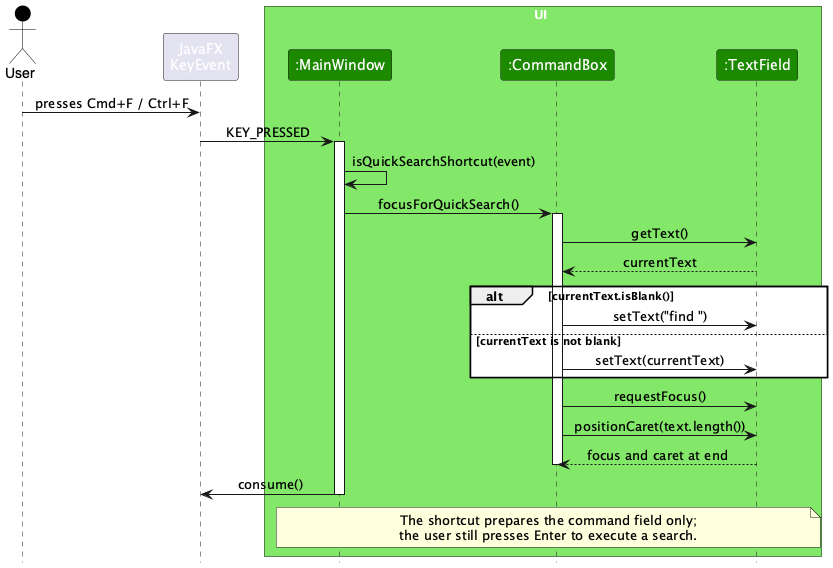
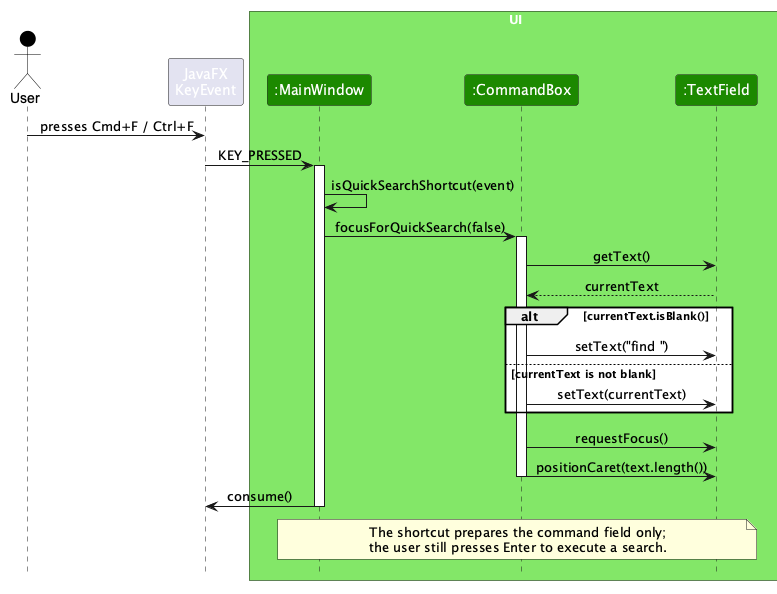
Update developer guide diagrams and quick command behavior

Changed region(s): [[0.0, 0.0, 1.0, 0.9877]]

diff --git a/docs/DeveloperGuide.md b/docs/DeveloperGuide.md
@@ -29,10 +29,8 @@ then launch the JAR from an empty, writable test folder with `java -jar "address
 
 ## **Design**
 
-<div markdown="span" class="alert alert-primary">
+The diagrams are maintained as PlantUML source files in `docs/diagrams` and use the shared `style.puml` file. To regenerate an image, run `java -jar plantuml.jar -tpng -o ../images docs/diagrams/DIAGRAM.puml` from the repository root. See the [PlantUML tutorial](https://se-education.org/guides/tutorials/plantUml.html) for setup.
 
-:bulb: **Tip:** The `.puml` files used to create diagrams are in `docs/diagrams`. Refer to the [_PlantUML Tutorial_ at se-edu/guides](https://se-education.org/guides/tutorials/plantUml.html) to learn how to create and edit diagrams.
-</div>
 
 ### Architecture
 
@@ -84,7 +82,7 @@ The UI consists of a `MainWindow` and its parts, such as `CommandBox`, `ResultDi
 
 The `UI` component uses the JavaFX UI framework. The layouts of these UI parts are defined in matching `.fxml` files in `src/main/resources/view`. For example, [`MainWindow.fxml`](https://github.com/AY2627S1-CS2103T-T12-3/tp/blob/master/src/main/resources/view/MainWindow.fxml) specifies the layout of [`MainWindow`](https://github.com/AY2627S1-CS2103T-T12-3/tp/blob/master/src/main/java/seedu/address/ui/MainWindow.java).
 
-The sequence diagram below shows how the Cmd+F (macOS) or Ctrl+F (Windows/Linux) shortcut prepares the command field for a contact search. If the field is empty or contains only whitespace, `find ` is inserted; otherwise, the current text is preserved. The command field receives focus and the caret moves to the end. The shortcut does not execute the search; the user presses Enter to run the command.
+The sequence diagram below shows how the Cmd+F (macOS) or Ctrl+F (Windows/Linux) shortcut prepares the command field for a contact search. If the field is empty or contains only whitespace, `find ` is inserted; otherwise, the current text is preserved. The command field receives focus and the caret moves to the end. The shortcut calls `focusForQuickSearch(false)` and does not execute the search. The sidebar find button calls `focusForQuickSearch(true)` and replaces any existing text with `find `.
 
 <img src="images/QuickSearchShortcutSequenceDiagram.png" width="650" />
 
@@ -95,7 +93,7 @@ The `UI` component,
 * keeps a reference to the `Logic` component, because the `UI` relies on the `Logic` to execute commands.
 * depends on some classes in the `Model` component because it displays `Person` objects from the model.
 
-The weekly application calendar is an `ApplicationCalendarPanel` that `MainWindow` displays when the user selects **Calendar** in the sidebar. The panel keeps the Monday that starts the selected week and redraws the header range and seven day columns whenever the user moves to the previous or next week. Each column lists the applications whose application date falls on that day, showing the role and company, or a placeholder if there are none. The range omits the year unless the week spans two years. The sequence diagram below shows this flow.
+The weekly application calendar is an `ApplicationCalendarPanel` that `MainWindow` displays when the user selects **Calendar** in the sidebar. The panel keeps the Monday that starts the selected week and redraws the header range and seven day columns whenever the user moves to the previous or next week. Each column lists the applications whose application date falls on that day, showing the role, company and status, or a placeholder if there are none. The range omits the year unless the week spans two years. The sequence diagram below shows this flow.
 
 <img src="images/ApplicationCalendarSequenceDiagram.png" width="650" />
 
@@ -109,7 +107,7 @@ Here's a (partial) class diagram of the `Logic` component:
 
 The sequence diagram below illustrates the interactions within the `Logic` component, taking `execute("delete 1")` API call as an example.
 
-![Interactions Inside the Logic Component for the `delete 1` Command](images/DeleteSequenceDiagram.png)
+<img src="images/DeleteSequenceDiagram.png" width="800" alt="Delete command sequence in Logic" />
 
 <div markdown="span" class="alert alert-info">:information_source: **Note:** The lifeline for `DeleteCommandParser` should end at the destroy marker (X), but due to a limitation of PlantUML, it continues to the end of the diagram.
 </div>
@@ -119,7 +117,7 @@ How the `Logic` component works:
 1. When `Logic` is called upon to execute a command, the command is passed to an `AddressBookParser` object, which in turn creates a parser that matches the command (e.g., `DeleteCommandParser`) and uses it to parse the command.
 1. This results in a `Command` object (more precisely, an object of one of its subclasses e.g., `DeleteCommand`) which is executed by the `LogicManager`.
 1. The command can communicate with the `Model` when it is executed (e.g. to delete a person).<br>
-   Note that although this is shown as a single step in the diagram above for simplicity, the code can require several interactions between the command object and the `Model` to complete the operation.
+   For deletion, the command resolves the index against the filtered contact list before passing the selected person to the model.
 1. The result of the command execution is encapsulated as a `CommandResult` object which is returned from `Logic`.
 
 Here are the other classes in `Logic` (omitted from the class diagram above) that are used for parsing a user command:
@@ -127,13 +125,19 @@ Here are the other classes in `Logic` (omitted from the class diagram above) tha
 <img src="images/ParserClasses.png" width="600"/>
 
 How the parsing works:
-* When called upon to parse a user command, the `AddressBookParser` class creates an `XYZCommandParser` (`XYZ` is a placeholder for the specific command name, e.g., `AddCommandParser`). The parser uses the other classes shown above to parse the user command and create an `XYZCommand` object (e.g., `AddCommand`). The `AddressBookParser` returns that object as a `Command` object.
+* When called upon to parse a user command, the `AddressBookParser` class creates an `XYZCommandParser` (`XYZ` is a placeholder for the specific command name, e.g., `AddCommandParser`). A command parser uses the relevant helper classes shown above to parse the user command and create an `XYZCommand` object (e.g., `AddCommand`). Different parsers use different helpers. The `AddressBookParser` returns that object as a `Command` object.
 * All `XYZCommandParser` classes, such as `AddCommandParser` and `DeleteCommandParser`, implement the `Parser` interface so they can be treated similarly where appropriate, for example during testing.
 
 ### Model component
 **API** : [`Model.java`](https://github.com/AY2627S1-CS2103T-T12-3/tp/blob/master/src/main/java/seedu/address/model/Model.java)
 
 <img src="images/ModelClassDiagram.png" width="900" />
+
+The following partial diagrams show the fields of contacts and applications.
+
+<img src="images/PersonDomainDiagram.png" width="800" alt="Contact fields and multiplicities" />
+
+<img src="images/ApplicationDomainDiagram.png" width="650" alt="Application fields and multiplicities" />
 
 
 The `Model` component,
@@ -147,7 +151,7 @@ The `Model` component,
 `add` creates a contact without a supplied address; `getAddress()` returns the `Not provided` placeholder for display
 when the optional is empty. `edit` can supply or replace a non-blank address, but cannot clear it with an empty `a/`.
 
-Contact search updates the filtered list using `ContactContainsKeywordsPredicate`. It checks each keyword against every supplied contact field and keeps a contact if any field contains a case-insensitive, full-word match. Empty optional company, role, and where-met values and absent addresses are skipped. The `Person` model tracks whether an address is absent; older data without this flag treats the legacy `Not provided` value as absent. An explicitly supplied address with that value remains searchable. `FindCommand` includes its normalized search terms in `CommandResult`, and the contact panel keeps a `Filtered by` indicator visible while the predicate remains active and replaces its empty-list placeholder with a message suggesting `list`, so an empty search result is not mistaken for an empty contact list. `EditCommand` replaces the person without resetting the filtered list's predicate, so the filter is reapplied to the updated person and the indicator remains visible. Commands that reset the contact filter clear the indicator. The activity diagram summarizes the matching logic.
+Contact search updates the filtered list using `ContactContainsKeywordsPredicate`. It checks keywords against supplied contact fields until a case-insensitive, full-word match is found. Empty optional company, role, and where-met values and absent addresses are skipped. The `Person` model tracks whether an address is absent; older data without this flag treats the legacy `Not provided` value as absent. An explicitly supplied address with that value remains searchable. `FindCommand` includes its normalized search terms in `CommandResult`, and the contact panel keeps a `Filtered by` indicator visible while the predicate remains active and replaces its empty-list placeholder with a message suggesting `list`, so an empty search result is not mistaken for an empty contact list. `EditCommand` replaces the person without resetting the filtered list's predicate, so the filter is reapplied to the updated person and the indicator remains visible. Commands that reset the contact filter clear the indicator. The activity diagram summarizes the matching logic.
 
 <img src="images/ContactSearchActivityDiagram.png" width="650" />
 
@@ -201,6 +205,10 @@ This rollback restores contact and application records only; it does not restore
 other UI state. Storage writes directly to the JSON file, so this mechanism does not guarantee that the previous file
 contents survive a failure partway through writing.
 
+The following sequence shows the save and rollback paths after a valid command is parsed.
+
+<img src="images/SaveRollbackSequenceDiagram.png" width="700" />
+
 #### Design considerations
 
 **Aspect: Restoring in-memory records when saving fails**
@@ -228,11 +236,15 @@ The search flow is as follows:
    complete query is a valid phone number, it also adds the normalized phone number to the search keywords so that a
    formatted query can match a stored phone number without separators.
 1. `FindCommand` passes `ContactContainsKeywordsPredicate` to `Model#updateFilteredPersonList`.
-1. The predicate checks every keyword against the name, phone, email, company, role, where-met detail, supplied
+1. The predicate checks keywords against the name, phone, email, company, role, where-met detail, supplied
    address, remark, and tags. A contact is retained when any keyword has a case-insensitive, full-word match in any
    of those fields. `StringUtil` ignores punctuation at the beginning or end of a word while matching.
 1. `FindCommand` returns a `CommandResult` that requests the Contacts view and sets the active search term.
    `MainWindow` forwards that term to `PersonListPanel`, which displays the persistent `Filtered by:` indicator.
+
+The following sequence illustrates a successful `find alex`; the matching activity diagram above focuses on the predicate.
+
+<img src="images/ContactSearchSequenceDiagram.png" width="700" alt="Sequence of a contact search" />
 
 The `FilteredList<Person>` remains backed by the model's contact list. After successful `edit` and `delete` commands,
 the active predicate remains in place and the search action leaves the indicator unchanged. The filtered list reflects
@@ -559,7 +571,7 @@ and Interviewing.
    **Expected:** Each button replaces the draft with its command word and a trailing space, focuses the box and
    positions the caret at the end. No record is added until a complete command is submitted. The current view stays open.
 3. Empty the box and select the **find** quick command. Then replace its text with `list` and select **find** again.<br>
-   **Expected:** The empty box becomes `find `; the non-empty `list` text is preserved. Both actions focus the command
+   **Expected:** Both actions replace the existing text with `find `. Both actions focus the command
    box without running a command. Clear the draft before continuing.
 
 ### Weekly application calendar
